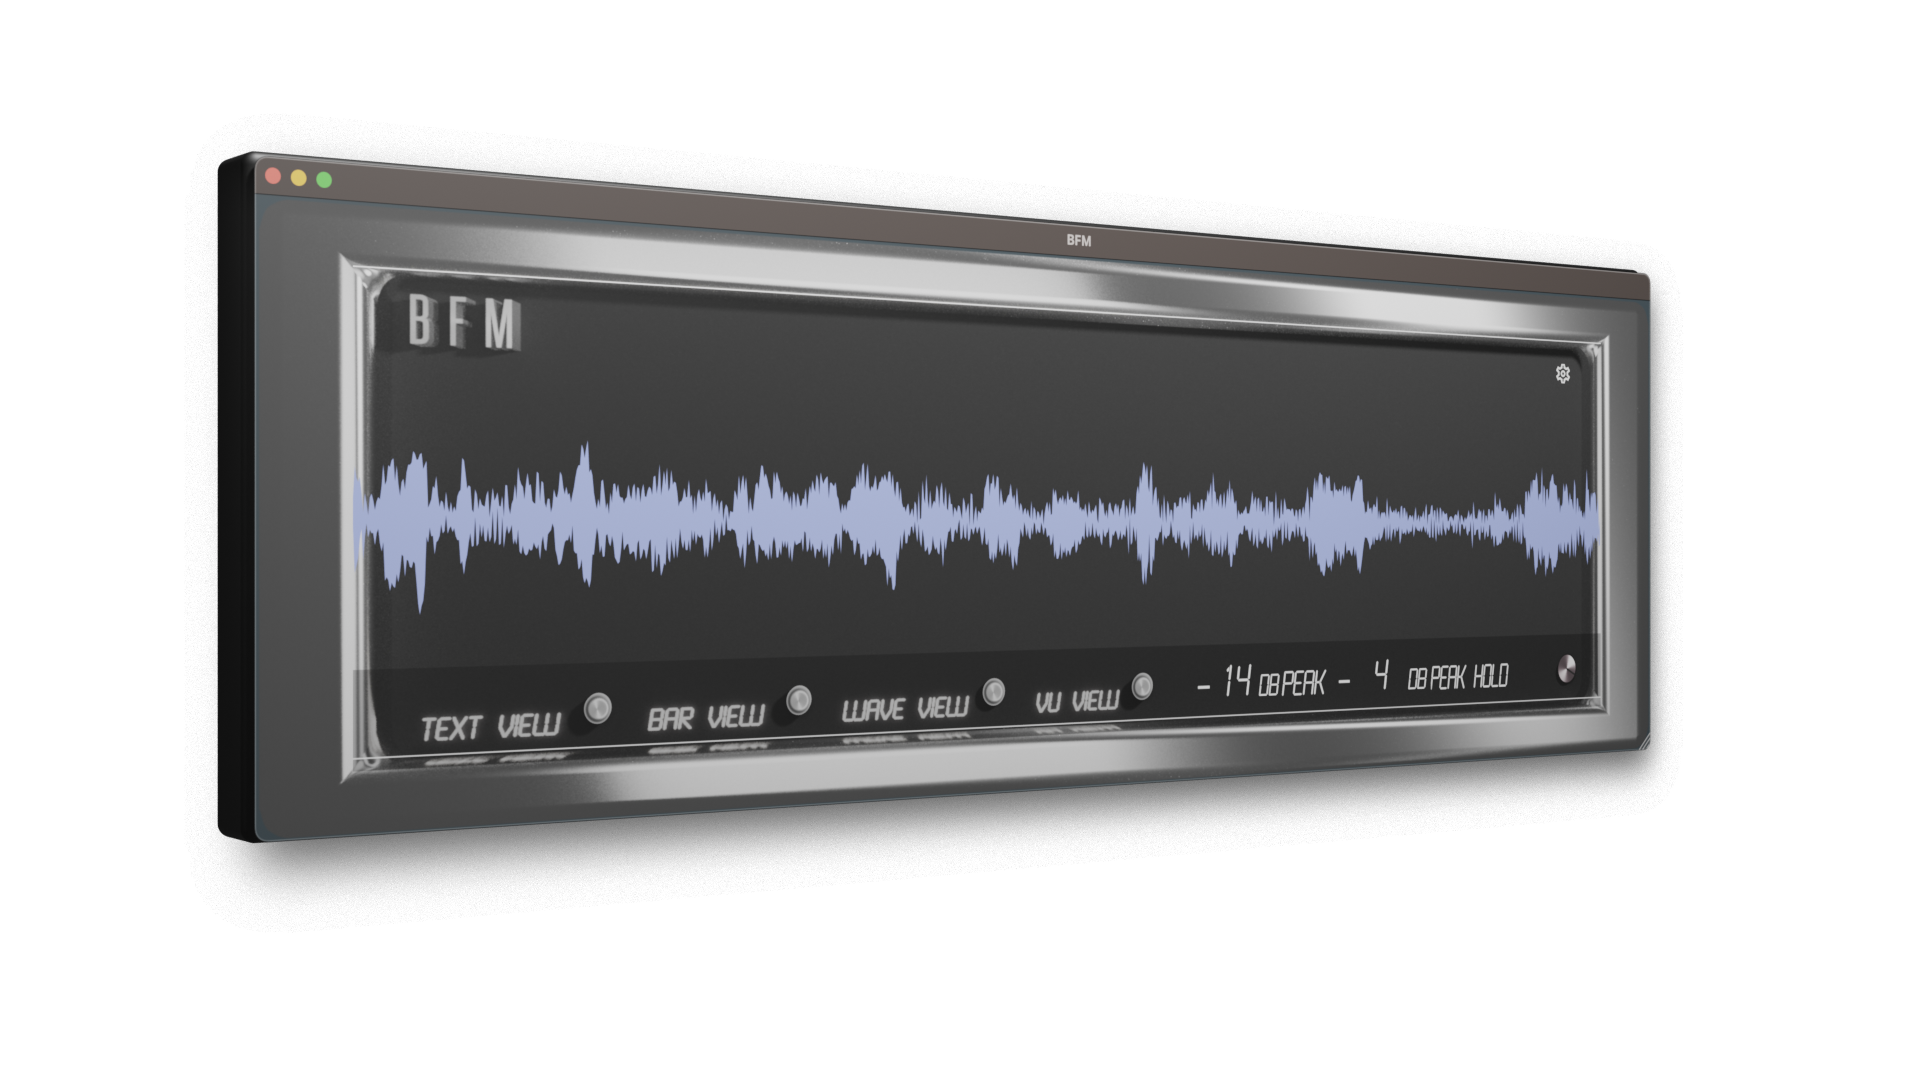
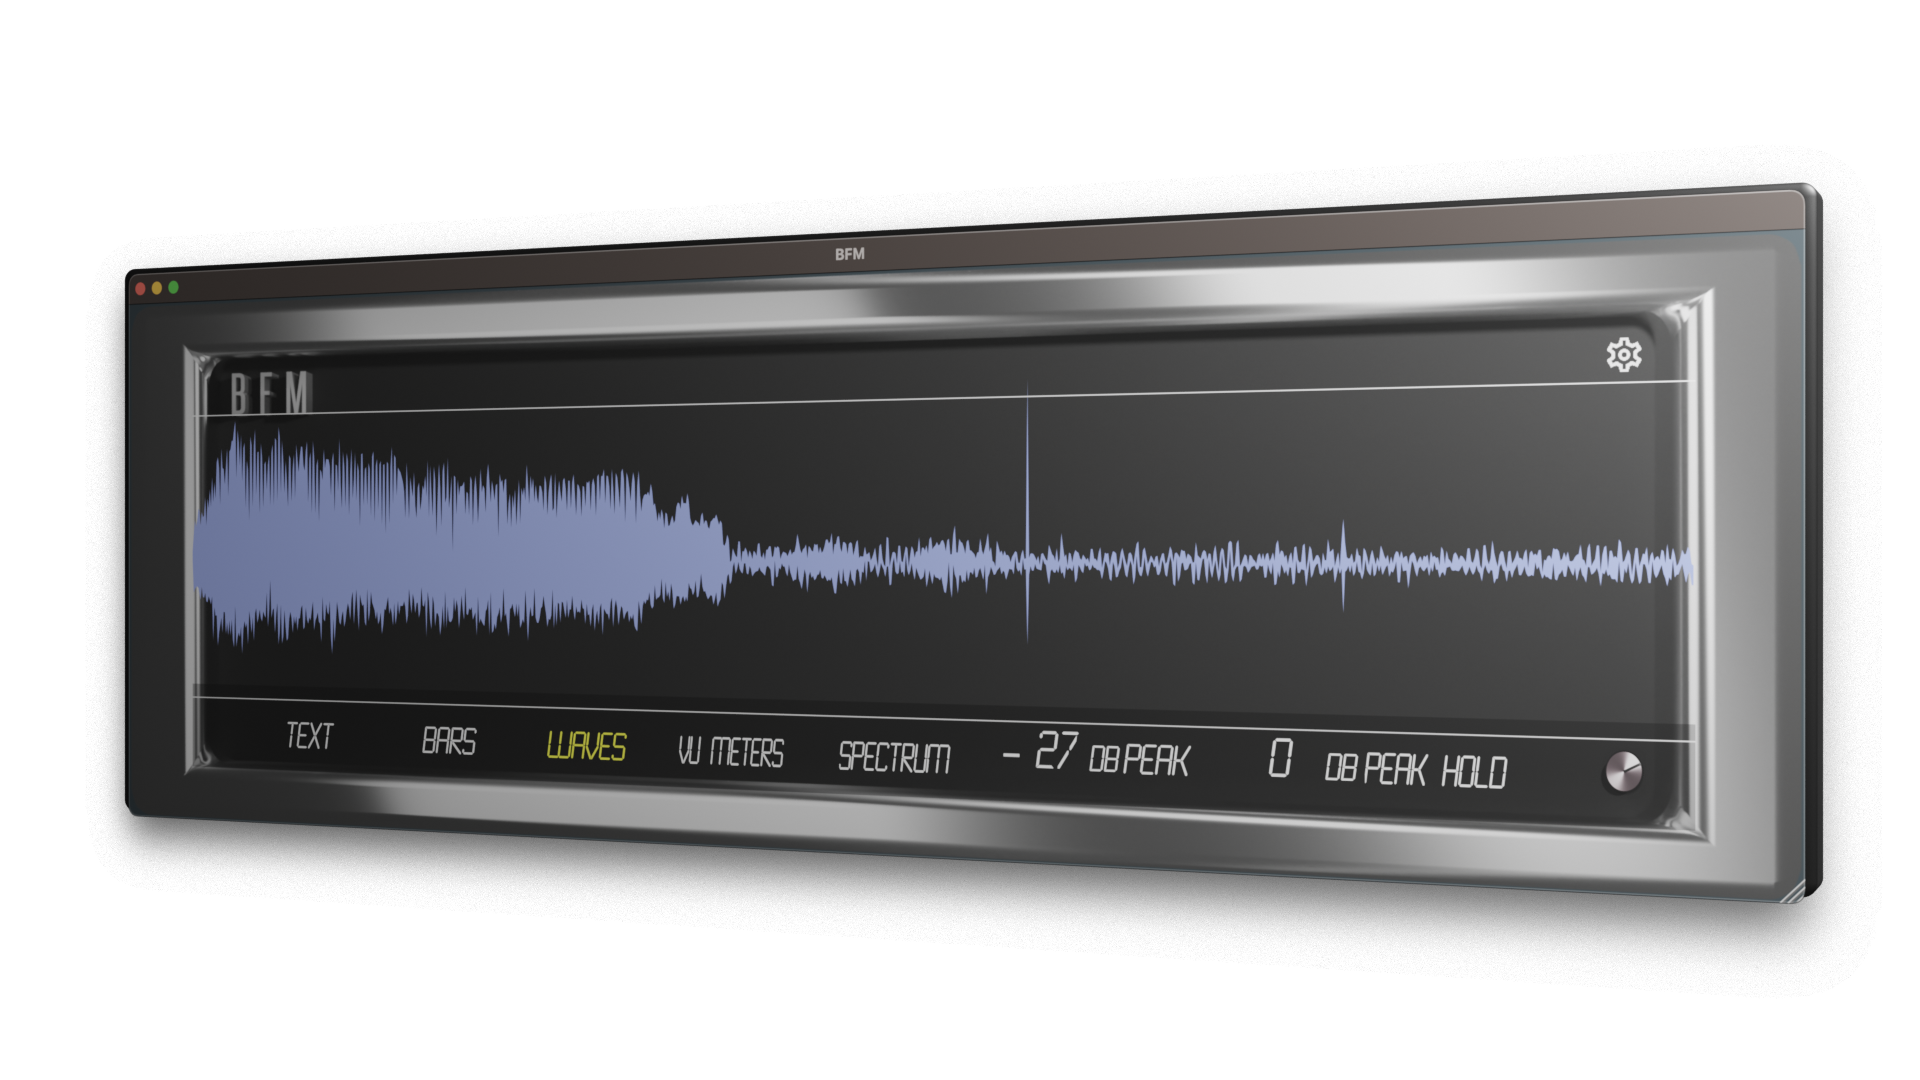
New Images

diff --git a/Software/BFMmain.html b/Software/BFMmain.html
@@ -84,7 +84,7 @@
 <div class="dlbtn">
 	
 		
-<a href="https://oscaudio.gumroad.com/l/springVerb" target="_blank"><button class="dlbtn">DOWNLOAD</button></a>
+<a href="https://oscaudio.gumroad.com/l/BFM" target="_blank"><button class="dlbtn">DOWNLOAD</button></a>
 	
 <ul>	
 	<li><a href="#info"> INFO </a> </li>
@@ -102,56 +102,83 @@
 
 	
 <div class="infoTxt">
-<p style="width: 100%; font-size: 2vw"><strong>BFM</strong> or Big F*ing Meters is a <strong>macOS, Windows,</strong> and soon to be iOS compatible Metering plug-in designed exactly how the name sounds... <strong>really f*ing big</strong>. With the main goal of readability, <strong>we wanted to bring a meter that you can see from accross the studio</strong> and keep your records clip-free.</p>
+<p style="width: 100%; font-size: 2vw"><strong>BFM</strong> or Big F*ing Meters is a <strong>macOS, Windows,</strong> and soon to be iOS compatible Metering plug-in designed exactly how the name sounds... <strong>really f*ing big</strong>. With the main goal of readability, <strong>we wanted to bring a meter that you can see from across the studio</strong> and keep your records clip-free.</p>
 		
 </div>
 
 <div class="infoTxt">
 
-<img src="../images/BFM/bfm_comp.png" style="border-style: none; margin-top: 0px; box-shadow: none; margin-right: auto; margin-left: auto; width: 100%; height: 100%"> </img>
+<img src="../images/BFM/bfm_comp2.png" style="border-style: none; margin-top: -90px; margin-bottom: -70px; box-shadow: none; margin-right: auto; margin-left: auto; width: 100%; height: 100%"> </img>
 
 </div>
 
-<div class="infoTxt">
-<br><br>
-<p style="margin-top:30px; font-size: 2vw;">
+<div class="infoTxt"></img>
 
-<strong>BFM currently offers 4 Modes</strong> with <strong>Peak and Peak Hold</strong> values, to give you a variety of views to keep your signal under control. The <strong>Text View, Bar View, Wave View, and VU View </strong> let you decide how you want to keep track of your signal. 
-<br>
-<br>
-<strong>Focusing mainly on the peak of your signal using the true peak (dBFS) of the incoming audio buffer</strong>. Peak Hold is design to reset very slowly, but offers a quick click-to-reset function.
+<p style="margin-top:30px; font-size: 2vw; width: 100%;">
+	
+BFM currently offers <strong>5 Modes with RMS, LUFs, Peak, and Peak Hold values</strong>, to give you a variety of views to keep your signal under control. The <strong>Text, Bars, Waves, VU Meters, Spectrum</strong> let you decide how you want to keep track of your signal.
 </p>
-	
-	<img src="../images/BFM/bfm_ff_1.png" style="border-style: none; margin-top: 40px; box-shadow: none; margin-right: 0px; margin-left: 40px; width: 50%; height: 100%"> </img>
 
 
 </div>
 
 <div class="infoTxt">
-	
-<img src="../images/BFM/bfm_plug_sf_2.png" style="border-style: none; margin-top: 0px; box-shadow: none; margin-right: 0px; margin-left: 40px; width: 50%; height: 80%"> </img>
 
 <p style="margin-top:20px; margin-left: 0px; margin-bottom: 100px; font-size: 2vw">
-<strong>Text View </strong>
-gives you a quick look at just the values easy to see from accross the room. 
-<br>
-<br>
-<strong>Bar View </strong>
-offers a more traditional meter better for seeing the range of values.
-<br>
-<br>
-<strong>Wave View </strong>
-a more experimental style view, giving you a look at your waveform after your channel effects.
-<br>
-<br>
-<strong>VU View </strong>
-designed less for precision readings and more for a quick look to make sure your incoming levels are what you expect.  
+<strong>Text </strong>
+ gives you a quick look at just the values easy to see from across the room. This view offers the most values with RMS, Peak, Peak Hold, and LUFs values available. To reset Peak Hold click the value.</p>
+
+	
+<img src="../images/BFM/bfm_plug_sf_1.png" style="border-style: none; margin-top: -40px; box-shadow: none; margin-right: 0px; margin-left: 40px; width: 50%; height: 80%"> </img>
+
+</div>
+
+<div class="infoTxt">
+	
+<img src="../images/BFM/bfm_plug_sf_3.png" style="border-style: none; margin-top: -50px; box-shadow: none; margin-right: 0px; margin-left: 40px; width: 50%; height: 80%"> </img>
+
+<p style="margin-top:10px; margin-left: 0px; margin-bottom: 100px; font-size: 2vw">
+<strong>Bar  </strong>
+offers a more traditional meter better for seeing the range of values showing RMS, Peak, and Peak Hold. To reset Peak Hold click the value in text or on the bar.
 </p>
+
+</div>
+
+<div class="infoTxt">
+<p style="margin-top:00px; margin-left: 0px; margin-bottom: 100px; font-size: 2vw">
+
+<strong>Wave </strong>
+view gives you a look at your waveform after your channel effects with the ability to quickly mark where you want to see your signals peak. To reset Peak Hold click the value.
+</p>
+	
+<img src="../images/BFM/bfm_plug_sf_2.png" style="border-style: none; margin-top: -60px; box-shadow: none; margin-right: 0px; margin-left: 40px; width: 50%; height: 80%"> </img>
 	
 </div>
 
+<div class="infoTxt">
+	
+<img src="../images/BFM/bfm_plug_sf_4.png" style="border-style: none; margin-top: -60px; box-shadow: none; margin-right: 0px; margin-left: 40px; width: 50%; height: 80%"> </img>
+
+<p style="margin-top:0px; margin-left: 0px; margin-bottom: 100px; font-size: 2vw">
+<strong>VU Meter </strong>
+designed less for precision readings of your RMS, more of a quick look to make sure your incoming levels are what you expect. 
+</p>
+</div>
+
+<div class="infoTxt">
+
+<p style="margin-top:0px; margin-left: 0px; margin-bottom: 100px; font-size: 2vw">
+<strong>Spectrum </strong>
+ is a simplified frequency spectrum view. Great for getting a quick look at where your frequencies are when mixing or editing. There is also the PEAK value displayed on this page. To reset Peak Hold click the value.
+</p>
+	
+<img src="../images/BFM/bfm_plug_sf_5.png" style="border-style: none; margin-top: -60px; box-shadow: none; margin-right: 0px; margin-left: 40px; width: 50%; height: 80%"> </img>
+
+</div>
+
+
 <div class="videodemo">
-<a id="video"><iframe style="margin-left: 5%; margin-right: auto; padding-bottom: 100px" width="90%" height="100%" src="https://www.youtube.com/embed/2RG0yItN7IM" title="YouTube video player" frameborder="0" allow="accelerometer; autoplay; clipboard-write; encrypted-media; gyroscope; picture-in-picture" allowfullscreen></iframe></a>
+<a id="video"><iframe style="margin-left: 5%; margin-right: auto; padding-bottom: 100px" width="90%" height="100%" src="https://www.youtube.com/embed/O6ZY6I0JBSw" title="YouTube video player" frameborder="0" allow="accelerometer; autoplay; clipboard-write; encrypted-media; gyroscope; picture-in-picture" allowfullscreen></iframe></a>
 </div>
 </div>
 
@@ -164,16 +191,20 @@ designed less for precision readings and more for a quick look to make sure your
 </div>
 
 
-<a href="../images/springVerb/sprinb_Verb_SS_AU.png"> <img src="../images/BFM/Screenshot 2023-01-07 at 1.21.40 PM.png" style="width: 20%;height=30%; margin-left: 10%"></img></a>
+<a href="../images/BFM/SS_SA_BARS.png"> <img src="../images/BFM/SS_SA_BARS.png" style="width: 15%;height=30%; margin-left: 10%"></img></a>
 
-<a href="../images/springVerb/spring_Verb_SS_SA.png"> <img src="../images/BFM/Screenshot 2023-01-07 at 1.21.50 PM.png" style="width: 20%;height=30%; margin-bottom: 0px;"></img></a>
+<a href="../images/BFM/SS_SA_PEAKH.png"> <img src="../images/BFM/SS_SA_PEAKH.png" style="width: 15%;height=30%; margin-bottom: 0px;"></img></a>
 
-<a href="../images/springVerb/spring_Verb_SS_VST3.png"> 
-<img src="../images/BFM/Screenshot 2023-01-07 at 1.21.56 PM.png" style="width: 20%;height=30%"></img>
+<a href="../images/BFM/SS_SA_WAVE.png"> 
+<img src="../images/BFM/SS_SA_WAVE.png" style="width: 15%;height=30%"></img>
 </a>
 
-<a href="../images/springVerb/spring_Verb_SS_VST3.png"> 
-<img src="../images/BFM/Screenshot 2023-01-07 at 1.22.03 PM.png" style="width: 20%;height=30%"></img>
+<a href="../images/BFM/SS_SA_FREQ.png"> 
+<img src="../images/BFM/SS_SA_FREQ.png" style="width: 15%;height=30%"></img>
+</a>
+
+<a href="../images/BFM/SS_SA_VU.png"> 
+<img src="../images/BFM/SS_SA_VU.png" style="width: 15%;height=30%"></img>
 </a>
 
 
